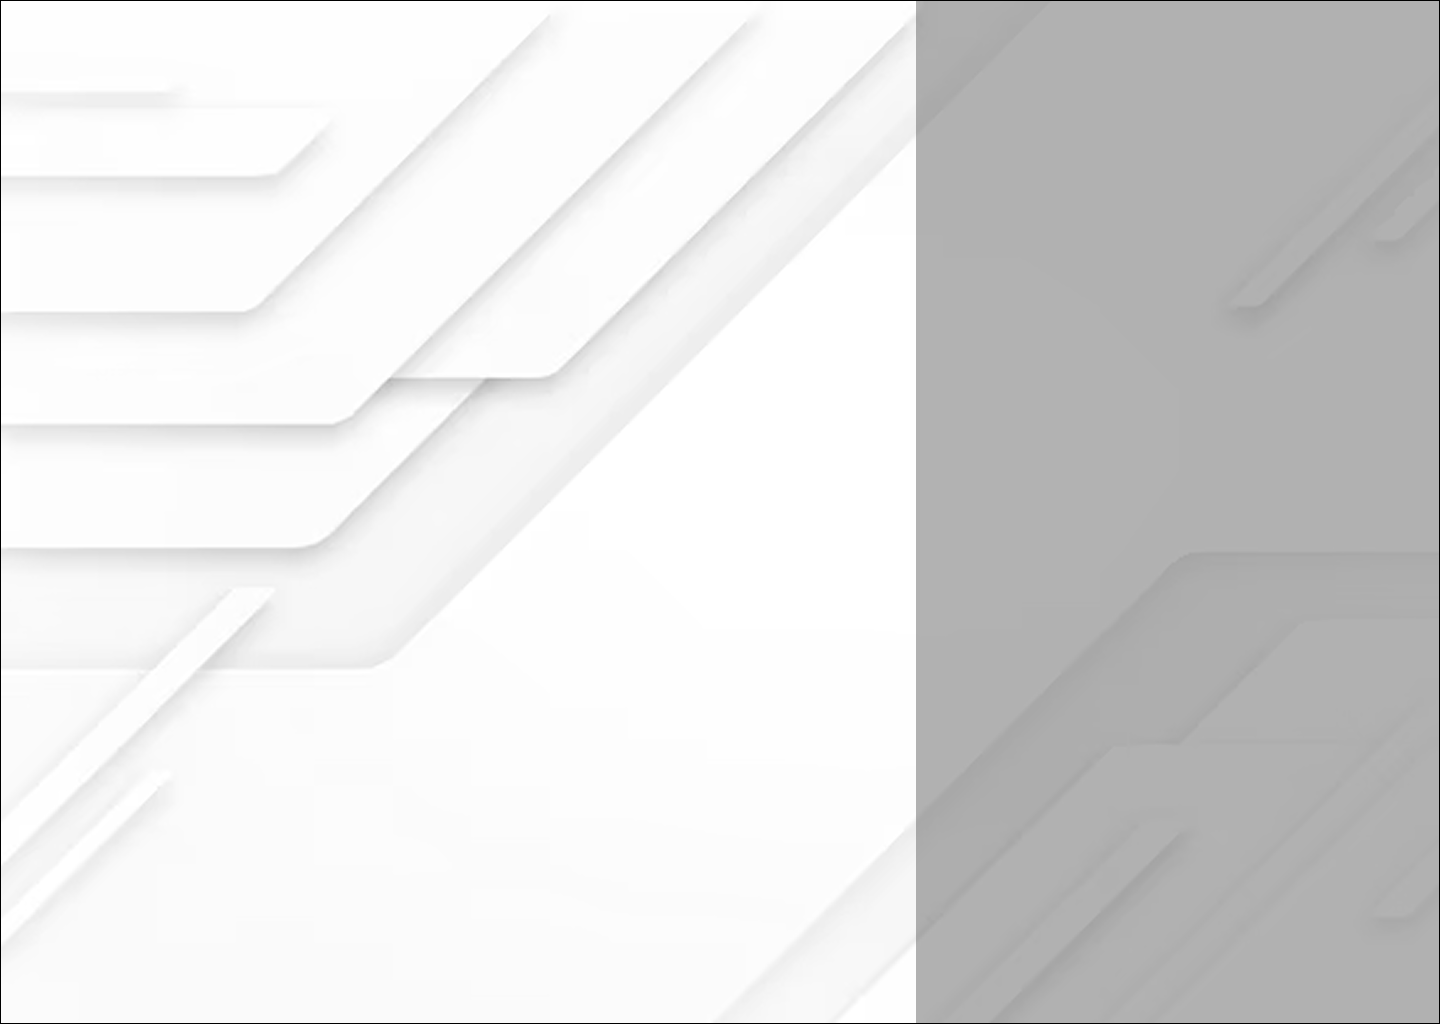
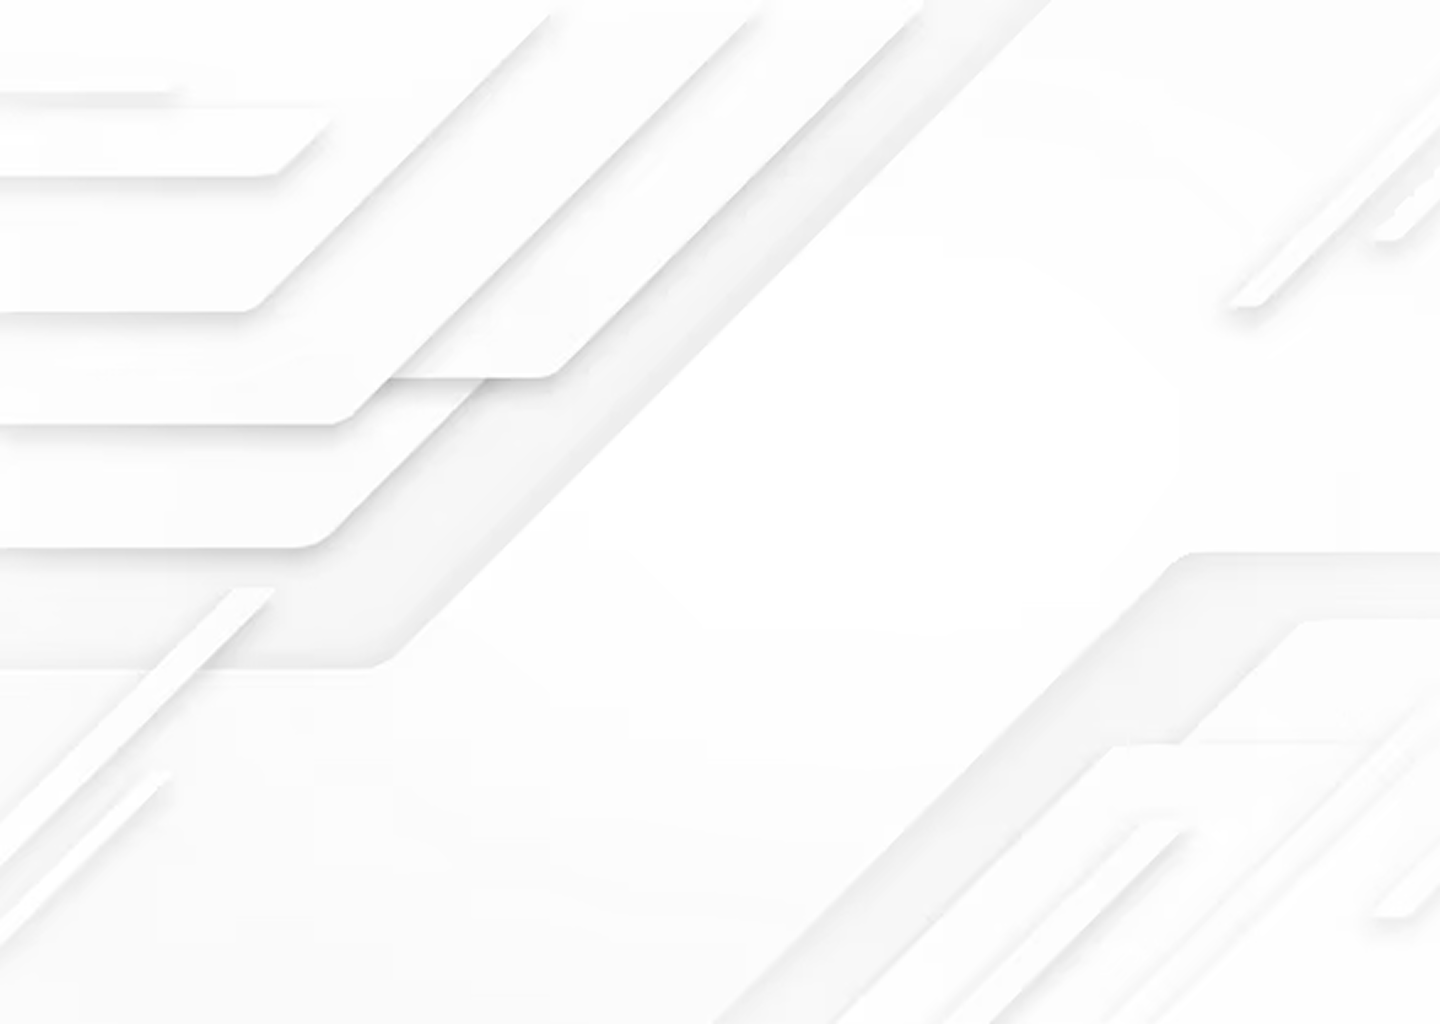
background styling for login

diff --git a/my-app/src/styles/register.css b/my-app/src/styles/register.css
@@ -1,13 +1,18 @@
+body {
+  background-image: url('../assets/Login.png');
+  background-size: cover;
+}
+
 .signup-container {
   display: flex;
   justify-content: flex-end;
   align-items: center;
   height: 100vh;
-  padding-right: 10%;
-  background-image: url("../assets/Login.png");
-  background-repeat: no-repeat;
-  background-position: center;
-  background-size: cover;
+  padding-right: 5em;
+  background-image: url("../assets/rectangle.png");
+  background-position: right;
+  background-repeat:repeat-y;
+  background-size: 40vw 100;
   overflow-x: hidden;
   font-family: system-ui, -apple-system, BlinkMacSystemFont, "Segoe UI", Roboto,
     Oxygen, Ubuntu, Cantarell, "Open Sans", "Helvetica Neue", sans-serif;

diff --git a/my-app/src/styles/login.css b/my-app/src/styles/login.css
@@ -1,16 +1,21 @@
+body {
+  background-image: url('../assets/Login.png');
+  background-size: cover;
+}
+
 /* Login background container */
 .login-container {
   display: flex;
   justify-content: flex-end;
   align-items: center;
   height: 100vh;
-  padding-right: 10%;
+  padding-right: 5em;
 
   /* Background like home */
-  background-image: url("../assets/Login.png");
-  background-repeat: no-repeat;
-  background-position: center;
-  background-size: cover;
+  background-image: url("../assets/rectangle.png");
+  background-position: right;
+  background-repeat:repeat-y;
+  background-size: 40vw 100;
 
   /* Consistent styling */
   overflow-x: hidden;
